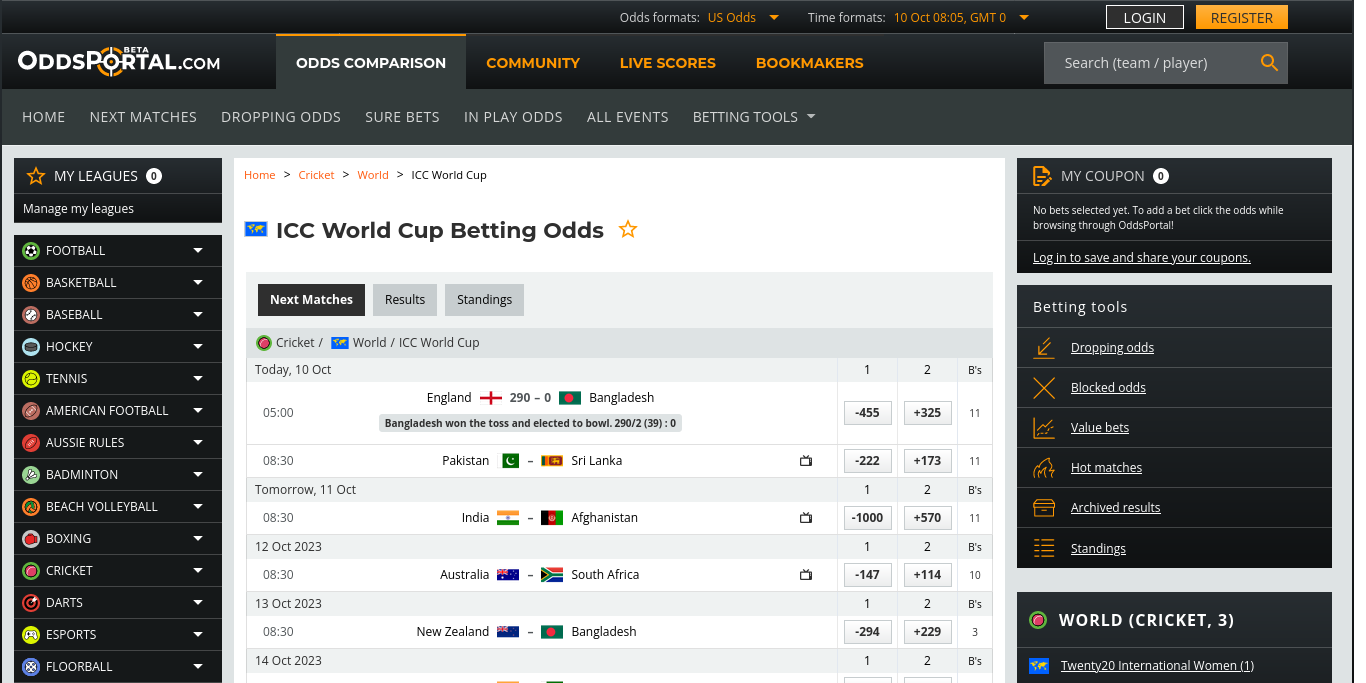
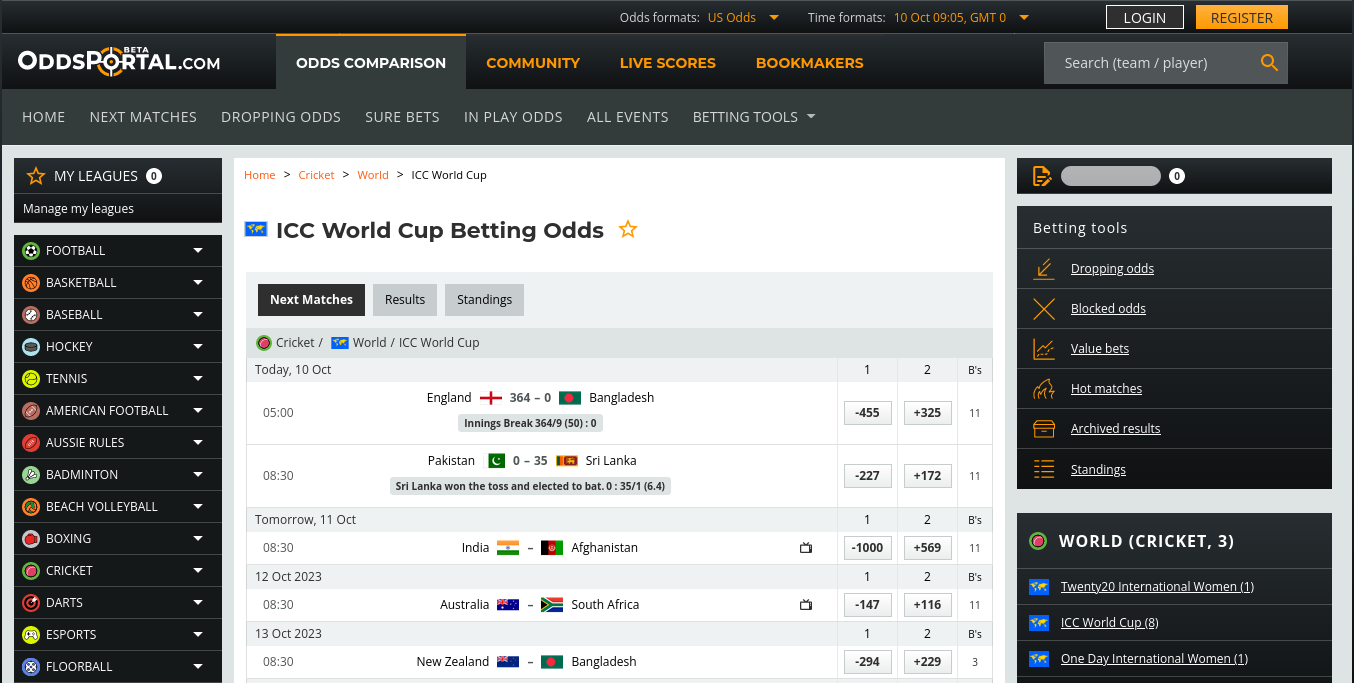
Update Data (Cron) Tue Oct 10 09:05:06 UTC 2023

diff --git a/src/nonview/data/TEAM1_ID_TO_TEAM2_ID_TO_ODDS_PAIR.js b/src/nonview/data/TEAM1_ID_TO_TEAM2_ID_TO_ODDS_PAIR.js
@@ -1,18 +1,15 @@
 // Auto Generated by workflows/update_team1_id_to_team2_id_to_odds_pair.py
-// www.oddsportal.com - 2023-10-10 13:35:11
+// www.oddsportal.com - 2023-10-10 14:35:06
 
 import { TEAM } from "../core/Team.js";
 
 export const TEAM1_ID_TO_TEAM2_ID_TO_ODDS_PAIR = {
-  [TEAM.PAK.id]: {
-    [TEAM.LKA.id]: [1.45, 2.73],
-  },
   [TEAM.IND.id]: {
-    [TEAM.AFG.id]: [1.10, 6.70],
-    [TEAM.PAK.id]: [1.40, 2.98],
+    [TEAM.AFG.id]: [1.10, 6.69],
+    [TEAM.PAK.id]: [1.42, 2.86],
   },
   [TEAM.AUS.id]: {
-    [TEAM.ZAF.id]: [1.68, 2.14],
+    [TEAM.ZAF.id]: [1.68, 2.16],
   },
   [TEAM.NZL.id]: {
     [TEAM.BGD.id]: [1.34, 3.29],

diff --git a/src/nonview/constants/VERSION.js b/src/nonview/constants/VERSION.js
@@ -1,4 +1,4 @@
 // Auto-generated by javascript_version.py
-export const DATETIME_STR = "2023-10-10 13:35:11";
+export const DATETIME_STR = "2023-10-10 14:35:06";
 export const VERSION_DATETIME = new Date(DATETIME_STR);
 export const LAST_COMMIT_MESSAGE = "Updated 📊Data"

diff --git a/src/nonview/data/ODI_ID_TO_WINNER.js b/src/nonview/data/ODI_ID_TO_WINNER.js
@@ -1,5 +1,5 @@
 // Auto Generated by workflows/update_odi_id_to_winner.py
-// www.cricbuzz.com - 2023-10-10 13:35:04
+// www.cricbuzz.com - 2023-10-10 14:34:58
 
 import { TEAM } from "../core/Team.js";
 
